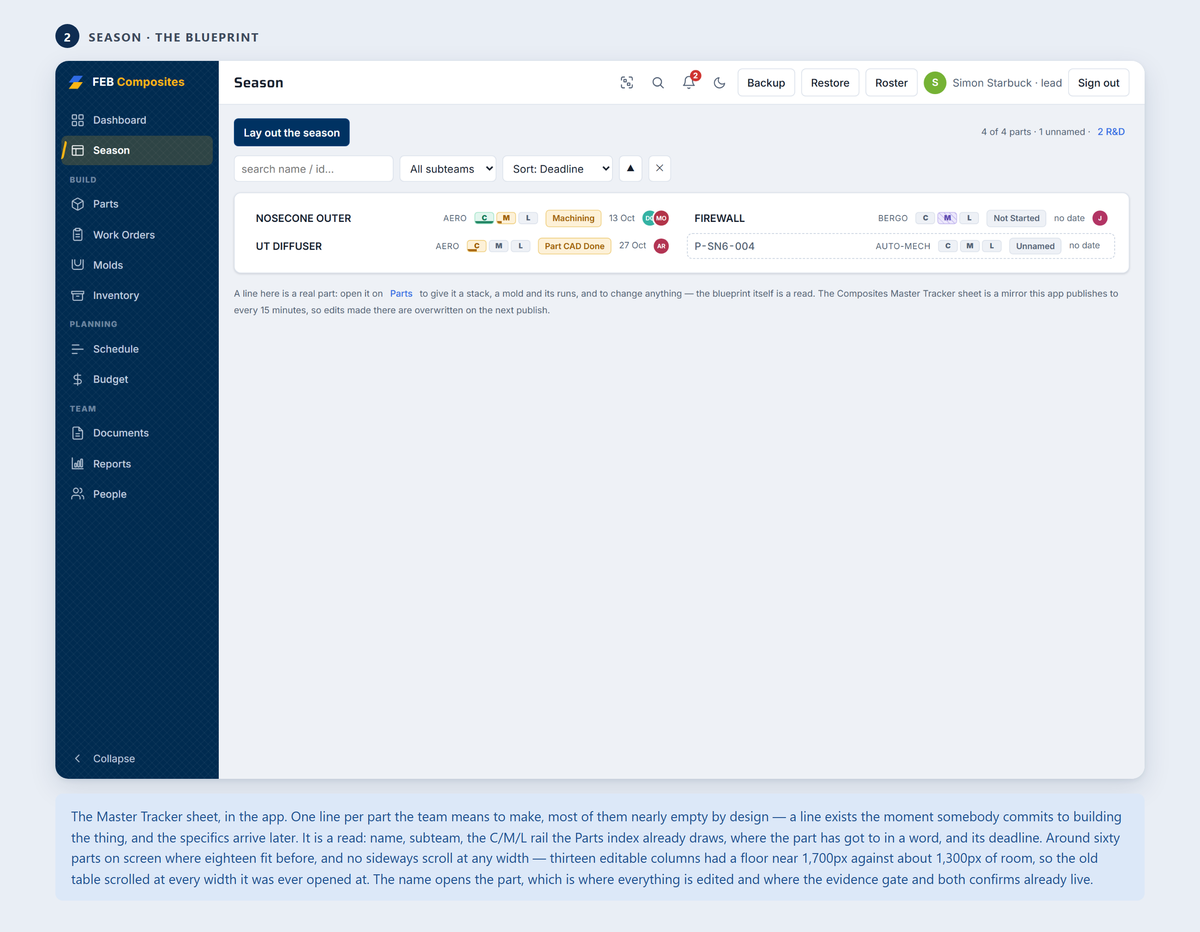
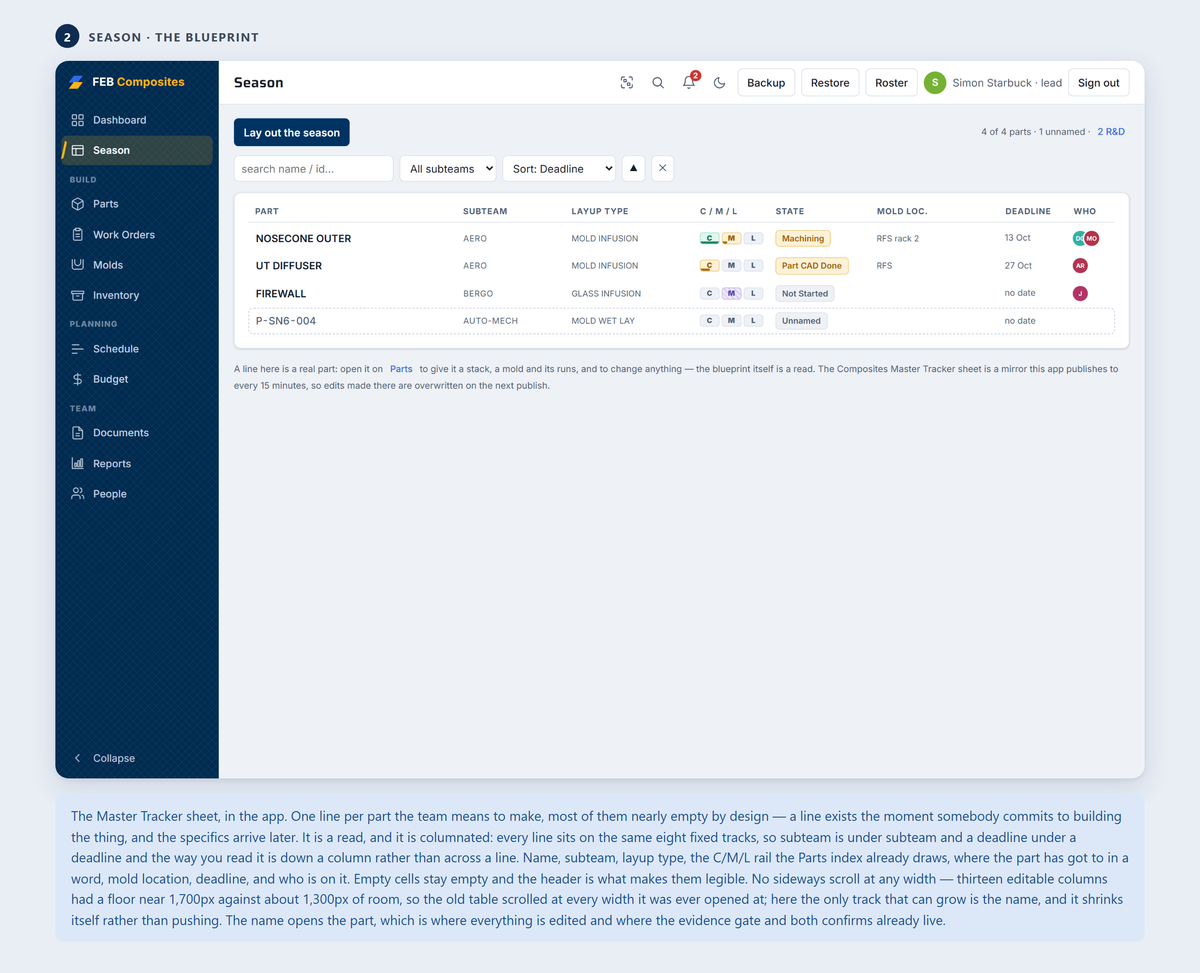
Season: one part per line, on columns you can scan down
Simon's read of what shipped in v3.0.0: the compactness was right, the
two-abreast flow was not. A multi-column flow fitted about sixty parts on
a screen and made every one of them harder to read, because each .sline
was its own grid sizing its own auto tracks — so no two lines put the
same field in the same place and there was no column to scan. Half as
many parts, aligned, is the better read.

So .sline and .shead now share ONE declaration of eight fixed tracks.
Four of them are ratios (name, subteam, layup type, mold location) and
four are literal widths (the rail, the state, the deadline, the faces);
the name's floor is 0 so a long name ellipses itself rather than pushing
the line wide, and the sum of the minima is 702px against ~1,000px of
content at the breakpoint where the widest two columns drop out. Nothing
here can be the thing that overflows.

justify-items: start, or every cell fills its track — which is invisible
until the cell has a background, at which point "Done" prints as a 122px
pill and the status column reads as a bar chart of nothing.

THE WIDTH ONE LINE GOT BACK PAID FOR TWO FIELDS. layupType and
moldLocation move from where:"part" to where:"grid" in SEASON_COLS, so
"which of these are wet layups" and "what is still in Etcheverry" stop
being eleven parts to open. They are the first two columns to go below
1240px, by one display:none rule — which works only because the header's
cells wear the LINE's classes; with plain spans the header kept eight
[…]

diff --git a/03 App/app/index.html b/03 App/app/index.html
@@ -469,31 +469,83 @@
   .list .statusdrop select { padding: 4px 22px 4px 9px; font-size: 12px; }
 
   /* ---- the Season blueprint ----
-     One line per part, in a MULTI-COLUMN FLOW rather than a table or a grid.
-     Three reasons, in order of how much they cost to learn:
+     One line per part, and the lines are COLUMNATED: every line is a grid with
+     the same fixed tracks, so subteam sits under subteam and a date under a
+     date all the way down the card. The alignment IS the reading mechanism —
+     you scan a column, not a line — which is why the tracks are literal widths
+     and not `auto`. An `auto` track sizes itself per row, and a grid per row is
+     eight ragged edges rather than eight columns.
 
-     A flow that wraps cannot overflow sideways. The thirteen-column table this
-     replaces had a floor near 1,700px against about 1,300px of content width,
-     so it scrolled sideways at every real viewport, forever; the UI suite fails
-     any horizontal overflow of <main> and exempted it only because .mtxwrap was
-     a scroller. There is nothing to exempt now.
+     It shipped in v3.0.0 as a two-abreast multi-column flow. That fitted about
+     sixty parts on a screen and made every one of them harder to read: with
+     each line sizing its own tracks, a field landed wherever its neighbours
+     left room, so there was no column to scan. Half as many parts, aligned,
+     is the better read — and the width one line got back paid for two more
+     fields that used to need the part opening.
 
-     `columns` and not `grid`, because down-then-across is the reading order of
-     a sorted list — the same call .rgrid makes, for the same reason. A grid
-     would put the second-most-urgent part beside the first instead of under it.
+     .shead and .sline SHARE ONE DECLARATION of the tracks, deliberately. Two
+     rules holding the same eight numbers is a drift waiting to happen, and a
+     header that has drifted off its columns is worse than no header at all.
 
-     And break-inside: avoid, or a line splits across the column gap. */
-  .seasongrid { columns: 430px; column-gap: 14px; }
-  .sgroup { break-inside: avoid-column; margin-bottom: 10px; }
+     No rules drawn between the columns. The alignment is the separation; a
+     line every hundred pixels rebuilds the table nobody asked to come back.
+
+     Nothing here can scroll sideways: the only elastic track is the name, at
+     minmax(0, 1fr), so a long name shrinks its own cell rather than pushing
+     the line wide. The UI suite fails any horizontal overflow of <main> and
+     exempted this tab only while .mtxwrap was a scroller; there is nothing to
+     exempt now. */
+  /* justify-items: start, or every cell fills its track — and a cell that fills
+     its track is invisible until it has a background, at which point "Done"
+     prints as a 122px pill and the status column reads as a bar chart of
+     nothing. The tracks position the cells; they are not the cells. */
+  .sline, .shead {
+    display: grid; align-items: center; justify-items: start; gap: 0 12px;
+    grid-template-columns:
+      /* Four text columns share the slack and four fixed ones do not. The
+         alternative — one elastic name track — gives the widest column all the
+         width nothing else wants, and at 1440 that left 230px of blank paper
+         between a part's name and its subteam with every other column jammed
+         against the right edge. Ratios, so the line uses the window it has
+         without any one column running away with it.
+
+         Every elastic track is minmax(_, Nfr) with a floor that fits its
+         content, and the name's floor is 0 so a long name shrinks itself to an
+         ellipsis rather than pushing the line wide. Sum of the minima is 702px
+         against ~1,000px of content at the 1240px breakpoint where the two
+         quiet columns drop out, so the grid can never be the thing that
+         overflows. */
+      minmax(0,     2fr)    /* part name                                     */
+      minmax(84px,  1fr)    /* subteam                                       */
+      minmax(104px, 1.2fr)  /* layup type                                    */
+      88px                  /* C/M/L rail: three 26px chips, two 3px gaps    */
+      122px                 /* the state in a word ("Machine Complete")      */
+      minmax(96px,  1.2fr)  /* mold location                                 */
+      78px                  /* deadline, with room for the late glyph        */
+      46px;                 /* two 20px avatars, overlapped                  */
+  }
+  .seasongrid { display: block; }
+  .sgroup { margin-bottom: 12px; }
   .sgroup .pgrouphd { margin-top: 0; }
 
-  /* Five things wide: name, subteam, the C/M/L rail, the state in a word, the
-     date. .sline and not .srow — that name has belonged to the dashboard's
-     module rows since round four, and the .dboard/.board collision is already
-     one cautionary tale in this file. */
-  .sline { break-inside: avoid; position: relative;
-    display: grid; grid-template-columns: minmax(0, 1fr) auto auto auto auto auto;
-    gap: 0 10px; align-items: center; padding: 5px 9px; margin-bottom: 2px;
+  /* The column names. Said once at the top of the card and never per group —
+     eight uppercase words between every subteam and its rows would be the
+     loudest thing on the page.
+
+     A blueprint is mostly empty for months and that is the tab's founding
+     argument rather than a defect (see season.js's header), so most of what
+     these label is blank. That is exactly when a column needs a name: an empty
+     cell under a heading is a field nobody has filled in yet, and an empty cell
+     under nothing is a gap. */
+  .shead { padding: 0 9px 5px; margin-bottom: 4px;
+    border-bottom: 1px solid var(--line); font-size: 11px; font-weight: 700;
+    letter-spacing: .06em; text-transform: uppercase; color: var(--muted); }
+  .shead span { overflow: hidden; text-overflow: ellipsis; white-space: nowrap; }
+
+  /* .sline and not .srow — that name has belonged to the dashboard's module
+     rows since round four, and the .dboard/.board collision is already one
+     cautionary tale in this file. */
+  .sline { position: relative; padding: 5px 9px; margin-bottom: 2px;
     border: 1px solid transparent; border-radius: 7px;
     transition: background var(--t-fast) var(--ease); }
   .sline:hover { background: var(--hover); border-color: var(--line); }
@@ -515,7 +567,14 @@
   .sl-open:focus-visible::after { outline: 2px solid var(--accent); outline-offset: 2px; }
   .sline.unnamed .sl-open { font-weight: 500; color: var(--muted); font-variant-numeric: tabular-nums; }
   .sl-sub { font-size: 11px; letter-spacing: .04em; text-transform: uppercase; color: var(--muted); white-space: nowrap; }
-  .sl-stat { white-space: nowrap; }
+  /* The two quiet ones. Muted and small on purpose: they qualify the name, they
+     do not compete with it, and they are the first two columns to go when the
+     window narrows. Both ellipsis rather than wrap — a line that grows to two
+     rows because one mold lives somewhere with a long name breaks the only
+     thing this layout is for. The full value is in the cell's own title. */
+  .sl-type, .sl-loc { font-size: 11px; color: var(--muted);
+    overflow: hidden; text-overflow: ellipsis; white-space: nowrap; }
+  .sl-stat { white-space: nowrap; overflow: hidden; text-overflow: ellipsis; }
   .sl-due { font-size: 11.5px; color: var(--muted); white-space: nowrap;
     display: inline-flex; align-items: center; gap: 3px; }
   .sl-due.warn { color: var(--bad); font-weight: 600; }
@@ -523,18 +582,35 @@
   .sl-who .avatar { margin-left: -5px; box-shadow: 0 0 0 2px var(--card); }
   .sl-who .avatar:first-child { margin-left: 0; }
 
-  /* Below about 1200px of content the line folds in two, the way .pitem does
-     on the Parts rail — name and date on top, everything that qualifies them
-     underneath. Narrower columns, so more of them still fit. */
-  @media (max-width: 1350px) {
-    .seasongrid { columns: 380px; }
-    .sline { grid-template-columns: minmax(0, 1fr) auto; row-gap: 2px; }
-    .sl-open { grid-row: 1; grid-column: 1; }
-    .sl-due { grid-row: 1; grid-column: 2; justify-self: end; }
-    .sl-sub, .sline .prog3, .sl-stat { grid-row: 2; }
-    .sl-sub { grid-column: 1; }
-    .sline .prog3 { grid-row: 2; grid-column: 1; justify-self: start; }
-    .sl-who { grid-row: 2; grid-column: 2; justify-self: end; }
+  /* Narrowing happens in two steps, and the cheap one comes first.
+
+     Losing layup type and mold location costs context and nothing structural,
+     and it hands 216px back to the name — which is enough to carry the line
+     down to a phone-adjacent width before anything has to fold. */
+  @media (max-width: 1240px) {
+    .sline, .shead { grid-template-columns: minmax(0, 2fr) minmax(84px, 1fr) 88px 122px 78px 46px; }
+    .sl-type, .sl-loc { display: none; }
+  }
+  /* Then the line folds in two, the way .pitem does on the Parts rail: name and
+     date on top, everything that qualifies them underneath.
+
+     Every cell on row two is placed EXPLICITLY, in FIXED tracks. Two bugs in
+     one line: the version this replaces put .sl-sub and .prog3 both at row 2 /
+     column 1, which stacks two grid items in one cell — the subteam printed
+     underneath the stage rail — and auto tracks would have sized row two per
+     row, so a BERGO line and an AUTO-MECH line put their rails in different
+     places. Folded is still columnated; it just has two rows to do it in. */
+  @media (max-width: 1000px) {
+    /* A header cannot label a folded line. The fields are no longer in one row,
+       so eight words across the top would name columns that are not there. */
+    .shead { display: none; }
+    .sline { grid-template-columns: 84px 88px 1fr auto; row-gap: 3px; }
+    .sl-open { grid-row: 1; grid-column: 1 / -2; }
+    .sl-due { grid-row: 1; grid-column: -2 / -1; justify-self: end; }
+    .sl-sub { grid-row: 2; grid-column: 1; }
+    .sline .prog3 { grid-row: 2; grid-column: 2; }
+    .sl-stat { grid-row: 2; grid-column: 3; justify-self: start; }
+    .sl-who { grid-row: 2; grid-column: 4; justify-self: end; }
   }
   /* Budget goals: one bar per category, spent against the lead-set goal, and
      a Season bar whose tick marks where base ends and contingency begins (the
@@ -2567,13 +2643,13 @@
        rather than blowing out their card. */
     table.sub { display: block; overflow-x: auto; -webkit-overflow-scrolling: touch; }
 
-    /* SEASON: one column of cards, like every other list here.
+    /* SEASON: one card per part, like every other list here.
        This used to be an exemption FROM table.list's card collapse, because a
        <td> holding an <input> is never :empty and every row would have become
        thirteen labelled inputs stacked down a 393px screen. There are no inputs
-       and no table now, so the exemption is gone with them and the flow simply
-       stops having columns to wrap into. */
-    .seasongrid { columns: auto; }
+       and no table now, so the exemption went with them. The folded two-row
+       line above is already what a card wants to hold; this only gives it the
+       card. */
     .sline { background: var(--card); border-color: var(--line); box-shadow: var(--shadow);
       padding: 9px 12px; margin-bottom: 8px; }
 
@@ -2932,9 +3008,13 @@
        else. Without this the printed Season tab is a page of dates and status
        chips with no idea what any of them is about. */
     #main .sl-open { display: inline !important; font: inherit; font-weight: 600; color: inherit; }
-    /* Two columns on paper: the lines are short and a season is long. */
-    #main .seasongrid { columns: 2; }
+    /* One line per part on paper, as on screen. It was two columns while a
+       line was five short fields; at eight it no longer fits beside itself, and
+       a season printed in two half-width columns would drop the last three
+       columns off both. The column names print with it — a page of blank cells
+       needs them more than the screen does, since paper has no tooltip. */
     #main .sline { break-inside: avoid; box-shadow: none; border-color: transparent; }
+    #main .shead { break-inside: avoid; break-after: avoid; }
     /* The budget list's inline editors print as the plain values they show:
        a form control on paper is chrome around a number. */
     .list .statusdrop select, .buy-cost input, .buy-cat { border: none; background: none; padding: 0; appearance: none; color: inherit; }

diff --git a/03 App/app/season.js b/03 App/app/season.js
@@ -31,7 +31,16 @@
    one click away, where the CS-003 evidence gate and both confirms live
    anyway (partStageRow in parts.js). So a row became a line: a name that opens
    the part, the C/M/L rail the Parts index already draws, a status in words,
-   and a date. Roughly sixty parts on screen where eighteen used to be.
+   and a date. Eight controls' worth of information and no controls.
+
+   ONE PART PER LINE, AND THE LINES ARE COLUMNATED. It shipped in v3.0.0 as a
+   two-abreast multi-column flow, which fitted about sixty parts on a screen
+   and made every one of them harder to read: a line's fields landed wherever
+   its neighbour's happened to leave room, so there was no column to scan down.
+   Half as many parts, each in a fixed grid track that lines up with the one
+   above it, is the better read — and the width one line got back paid for two
+   more fields (layup type, mold location) that used to need the part opening.
+   The tracks are literal widths in one shared declaration; see the CSS.
 
    THE FEED IS DOWNSTREAM. tracker.js publishes the parts list to a document
    the Master Tracker's Apps Script pulls every 15 minutes, so the sheet still
@@ -67,9 +76,9 @@ const SEASON_COLS = [
   { key: "moldProgress", label: "Mold", type: "stage", where: "grid" },
   { key: "layupProgress", label: "Layup", type: "stage", where: "grid" },
   { key: "subteam", label: "Subteam", type: "select", where: "grid", opts: () => SUBTEAMS },
-  { key: "layupType", label: "Layup type", type: "select", where: "part", opts: () => LAYUP_TYPES },
+  { key: "layupType", label: "Layup type", type: "select", where: "grid", opts: () => LAYUP_TYPES },
   { key: "layupSchedule", label: "Schedule", type: "text", where: "part" },
-  { key: "moldLocation", label: "Mold loc.", type: "text", where: "part" },
+  { key: "moldLocation", label: "Mold loc.", type: "text", where: "grid" },
   { key: "moldEngineer", label: "Mold eng.", type: "person", where: "part" },
   { key: "manufacturingEngineer", label: "Mfg eng.", type: "person", where: "part" },
   { key: "weightG", label: "Weight (g)", type: "num", where: "part" },
@@ -125,17 +134,61 @@ function seasonLine(p) {
   const late = typeof partLate === "function" && partLate(p);
   const named = !!String(p.partName || "").trim();
   const engs = typeof partEngineers === "function" ? partEngineers(p) : [];
-  return `<div class="sline${late ? " late" : ""}${named ? "" : " unnamed"}"
-      title="${esc(p.id)}${p.layupType ? " · " + esc(p.layupType) : ""}">
+  /* An empty cell is left EMPTY, not filled with an em-dash. A blueprint in
+     September is mostly empty and that is the tab's founding argument, not a
+     rendering gap; a column of placeholders down twenty-six rows would be
+     louder than the values. What makes an empty cell legible is the header
+     over it, which is why seasonHead() exists. */
+  return `<div class="sline${late ? " late" : ""}${named ? "" : " unnamed"}" title="${esc(p.id)}">
     <button type="button" class="sl-open" data-open="${esc(p.id)}"
       onclick="openRecord('parts','${esc(p.id)}')">${esc(p.partName || p.id)}</button>
     <span class="sl-sub">${esc(p.subteam || "")}</span>
+    <span class="sl-type" title="${esc(p.layupType || "")}">${esc(p.layupType || "")}</span>
     ${typeof stageRail === "function" ? stageRail(p) : ""}
     <span class="stage ${st.cls} sl-stat">${esc(st.label)}</span>
+    <span class="sl-loc" title="${esc(p.moldLocation || "")}">${esc(p.moldLocation || "")}</span>
     <span class="sl-due${late ? " warn" : ""}">${p.layupDeadline
       ? esc(shortDate(p.layupDeadline)) + (late ? " " + icon("warning", 12) : "")
       : `<span class="muted">no date</span>`}</span>
     <span class="sl-who">${engs.map(e => avatar(e.email || e.name, 20)).join("")}</span>
+  </div>`;
+}
+
+/* ---------- the column names ----------
+   Eight quiet words, once, above the first line. Columns of mostly-empty cells
+   need naming or they are just gaps, and this is the cheapest thing that names
+   them: a row on the same grid tracks as .sline, sharing one declaration of
+   those tracks so it cannot drift off them.
+
+   NOT a <th> and not sortable. Thirteen sortable headers are what this tab was
+   before v3.0.0 and what made it 1,700px wide; sorting lives in the one select
+   above, where it costs no width at all. This is a label and nothing else.
+
+   Five of the eight labels are read out of SEASON_COLS rather than typed here,
+   so a field renamed in the manifest is renamed on screen. The other three are
+   not single fields: the rail is the three stage columns drawn as one mark,
+   the state is derived (seasonStatus) and is in no manifest, and "Who" is both
+   engineer fields collapsed into one stack of faces.
+
+   The two droppable cells wear the LINE's classes, .sl-type and .sl-loc, and
+   that is the point of them: below 1240px one display:none rule takes the
+   column out of the header and out of every line at once. With plain spans the
+   header kept eight cells over six tracks and wrapped, which put LAYUP TYPE
+   over the subteam column and DEADLINE on a second row — a header lying about
+   its own columns is worse than none. */
+function seasonHead() {
+  const lbl = k => { const c = seasonCol(k); return esc(c ? c.label : k); };
+  const rail = typeof PART_STAGES !== "undefined"
+    ? PART_STAGES.map(s => esc(s.short)).join(" / ") : "C / M / L";
+  return `<div class="shead">
+    <span>${lbl("partName")}</span>
+    <span>${lbl("subteam")}</span>
+    <span class="sl-type">${lbl("layupType")}</span>
+    <span>${rail}</span>
+    <span>State</span>
+    <span class="sl-loc">${lbl("moldLocation")}</span>
+    <span>${lbl("layupDeadline")}</span>
+    <span>Who</span>
   </div>`;
 }
 
@@ -197,7 +250,8 @@ const SEASON_SORT_EXTRA = {
 const SEASON_SORT_LABELS = {
   layupDeadline: "Sort: Deadline", status: "Sort: Status", partName: "Sort: Part",
   subteam: "Sort: Subteam", cadProgress: "Sort: CAD", moldProgress: "Sort: Mold",
-  layupProgress: "Sort: Layup", group: "Group: subteam",
+  layupProgress: "Sort: Layup", layupType: "Sort: Layup type",
+  moldLocation: "Sort: Mold loc.", group: "Group: subteam",
 };
 function seasonSortVal(p, key) {
   if (SEASON_SORT_EXTRA[key]) return SEASON_SORT_EXTRA[key](p);
@@ -249,13 +303,17 @@ function seasonGroupHead(name, rows) {
   </div>`;
 }
 
-/* Rows in, sections out. Grouped, each subteam gets its own flow container, so
-   a heading can never be stranded at the foot of one column with its rows in
-   the next — which is the one thing a multi-column layout will do to you if you
-   let a single flow carry both. */
+/* Rows in, sections out. Grouped, each subteam gets its own section under its
+   own heading; the column names are printed ONCE, above everything, and never
+   again per group. Repeating them over each subteam would put the loudest thing
+   on the page — eight uppercase words — between every group and its rows.
+
+   They still line up across groups because the tracks are fixed widths shared
+   by .shead and .sline, not per-container auto tracks. That is the property
+   that makes one header able to label five separate sections at all. */
 function seasonBody(rows, grouped) {
-  if (!grouped) return `<div class="seasongrid">${rows.map(seasonLine).join("")}</div>`;
-  let out = "", run = null, bucket = [];
+  if (!grouped) return `<div class="seasongrid">${seasonHead()}${rows.map(seasonLine).join("")}</div>`;
+  let out = seasonHead(), run = null, bucket = [];
   const flush = () => {
     if (!bucket.length) return;
     out += `<section class="sgroup">${seasonGroupHead(run, bucket)}
@@ -396,10 +454,12 @@ function renderSeason() {
     <button class="sm sortdir" title="Clear filters" onclick="resetSeasonFilters()">✕</button>
   </div>
   <div class="card">
-    ${/* A wrapping multi-column flow, NOT a scroller. Down-then-across is the
-          reading order of a sorted list, and a flow that wraps cannot overflow
-          sideways at all — which is what the UI suite fails on, and what the
-          thirteen-column table did at every width it was ever opened at. */""}
+    ${/* Eight fixed grid tracks and one elastic name, NOT a scroller. The only
+          track that can grow is minmax(0, 1fr), so a long name shrinks its own
+          cell instead of pushing the line wide — which is what the UI suite
+          fails on, and what the thirteen-column table did at every width it was
+          ever opened at. The two quiet columns drop out below 1240px and the
+          line folds in two below 1000px; see the CSS. */""}
     ${rows.length ? seasonBody(rows, sortKey === "group") : `<p class="muted">${all.length
       ? "Nothing matches these filters."
       : "No parts yet. <b>Lay out the season</b> — a list of names is enough to start."}</p>`}

diff --git a/03 App/app/core.js b/03 App/app/core.js
@@ -31,11 +31,9 @@ var APP_VERSION = "3.0.0";
 /* What this version changed, in the words a team member would use. Rewritten
    every release; three to six lines, or nobody reads it. */
 var WHATS_NEW = [
-  "The dashboard is four lanes now, and each one is a question: what is Stopped, what is Waiting on you, what is Due this week, and what is On the clock. A lane is never empty-looking — if nothing is blocked it says so, because that is worth knowing on a Monday. \"Waiting on you\" is the new one: it only lists steps you can actually sign, and if you are waiting on a training it tells you which one and who can teach it.",
-  "The Season tab is a read now. One line per part — name, subteam, the C/M/L marks, where it has got to, and its deadline — about sixty on screen instead of eighteen, and no more scrolling sideways to find the column you wanted. Clicking a part's name opens it. EDITING MOVED: change a part on its own page, where the evidence gate and the confirms already live. To add parts, \"Lay out the season\" takes a whole list of names at once.",
-  "A mold's drawings now come with its cut sheets: which boards it needs, where they are on the rack, and a full-size nest of each board with the saw cuts numbered. Blanks belonging to other molds are hatched, so you leave them alone. The Molds tab also prints the whole shop's cut list as a proper drawing set — title block, sheet numbers and all — instead of the bare page it used to make.",
-  "Anyone can now open the app and press \"View as guest\" to look around without an account. Guests can read everything and change nothing, because a buy-off carries a name. Useful for showing the team what we do; worth knowing that it means the app is readable by anyone with the link.",
-  "The loading screen holds long enough to actually read the fun fact, and you can tap it (or press Enter) to go straight in.",
+  "The Season tab is one part per line again, and the lines now sit in real columns — subteam under subteam, deadline under deadline, all the way down. It went out last week two abreast, which fitted more parts and made every one of them harder to read, because no two lines put the same field in the same place. Half as many parts, in columns you can scan, is the better read.",
+  "The width that bought back paid for two more fields on the line: LAYUP TYPE and MOLD LOC. So \"which of these are wet layups\" and \"what is still sitting in Etcheverry\" are now questions you answer by looking down a column, instead of opening eleven parts. There is a row of column names across the top, and both new columns drop out on a narrow screen before anything else does.",
+  "On a laptop or a tablet the line folds into two rows, and those two rows line up now too — the subteam and the C/M/L marks used to land in a different place on every row, and on the narrowest screens the subteam printed underneath the stage rail.",
 ];
 
 /* ---------- config/release ----------

diff --git a/README.md b/README.md
@@ -61,7 +61,7 @@ top, then Build, Planning, and Team):
 
 - **Dashboard:** the pit board, and the page you land on. Four lanes, each a question — **Stopped** (what is in the way of a run nobody can move), **Waiting on you** (what *you* can sign right now), **Due this week**, and **On the clock** (what is running without you, and when you come back). A lane never disappears: an empty one says so in a sentence with a number in it, because "nothing is blocked" is worth reading at a Monday meeting. Below them, side by side, the program (build progress, molds, money, RFS bookings, the store, the all-season counters) and the shop's footer (the filtered jumps and what has been touched lately, with team lore on its own surface at the foot of it). **"Waiting on you" is the new part**: it walks the buy-off gate ladder in the same order the button does, so it never promises a signature the button then refuses, and for somebody with no trainings yet it says which training would unlock the most work and who holds it. Role-aware: a lead also sees approvals, cure overrides and unassigned runs; a guest gets a season showcase instead of a work queue.
 - **Molds:** planning a mold slices an STL into board layers, splits it at the ShopSabre's cut-depth limit, and prints a dimensioned engineering drawing set. Those drawings now carry **cut sheets**: a schedule of every blank with the board it comes off, then one large sheet per board showing the nest, the numbered saw cuts and everything else sitting on that board. The Molds tab also prints the **whole shop's cut list** as its own sheet set. Both come off one batch pack, so they agree, and both carry a batch stamp — because a nest is a function of every planned mold and changes when any of them does.
-- **Season:** the blueprint, and the tab that replaced the Composites Master Tracker spreadsheet. One line per part the team means to make, most of them nearly empty — which is the point: in September the team knows it is building a nosecone and four side panels, not what their layup schedules are. A line that exists with nothing in it is a commitment to build the thing, and it **is** a real part record from the moment it exists, so there is no promotion step. It is a **read**: name, subteam, the C/M/L rail, where the part has got to in a word, and its deadline — around sixty parts on screen, and no sideways scroll at any width, where thirteen editable columns scrolled at every width. The name opens the part, which is where everything is edited and where the evidence gate and both confirms already live. **Lay out the season** takes a list of names and makes them all at once. This season only, and the Google Sheet is downstream — the app publishes to it every 15 minutes, so an edit made there is overwritten on the next publish.
+- **Season:** the blueprint, and the tab that replaced the Composites Master Tracker spreadsheet. One line per part the team means to make, most of them nearly empty — which is the point: in September the team knows it is building a nosecone and four side panels, not what their layup schedules are. A line that exists with nothing in it is a commitment to build the thing, and it **is** a real part record from the moment it exists, so there is no promotion step. It is a **read**, and it is columnated: every line sits on the same eight fixed tracks, so subteam is under subteam and a deadline under a deadline, and the way you read it is down a column rather than across a line. Name, subteam, layup type, the C/M/L rail, where the part has got to in a word, mold location, deadline, and who is on it — under one row of column names, said once however the list is grouped. Empty cells stay empty, since most of a blueprint is blank until March, and the header is what makes a blank cell legible. No sideways scroll at any width, where thirteen editable columns scrolled at every width: the only track that can grow is the name, and it shrinks itself to an ellipsis rather than pushing the line wide. The name opens the part, which is where everything is edited and where the evidence gate and both confirms already live. **Lay out the season** takes a list of names and makes them all at once. This season only, and the Google Sheet is downstream — the app publishes to it every 15 minutes, so an edit made there is overwritten on the next publish.
 - **Work Orders:** the manufacturing traveler, as a split view like Parts and Molds. The rail indexes every run grouped by the part it builds, so the tab reads as the part → run → mold hierarchy; each row carries how far through its buy-offs it is, and whether it is blocked or curing. Parts nobody has started show up too, with the button that starts one. Group, sort and filter are yours to set. The pane keeps the whole record in one scroll, Steps first because that is the bench action, but each section is its own card now, headed by a gold-slashed label carrying the same count and attention word the jump bar shows. A hero band under the title answers the five questions people come for: status as a colored dropdown (no edit mode needed), a steps progress bar, due date, mass actual against target, and the engineers' faces. Blockers and cure holds finally look different (a blocker is a person, amber; a hold is the clock, slate), signed steps compress to one line with their history a tap away, and the next step to act on wears a gold NOW badge and the page's only loud buy-off button. Photos are a first-class record: every step row has a camera button and a thumb strip, a Photos section collects everything on the record grouped by step, and declining "sign without a photo?" opens the camera and finishes the buy-off once the photo lands. Reference blocks (BOM, event log) fold behind counted summaries; quality and files fold only when empty; the note thread lives in its own card. Layup stack, BOM, step buy-offs stamped with who signed, blocker steps, and enforced cure holds backed by the datasheets in `resins.js`. Prints to a hand-fillable sheet that is always exactly two pages. **Issues** are a section of the run they hold up: raise one from the section or from a step's flag button, dispose it inline, and the run cannot be set Complete until every issue has a resolution method and a documented root cause — the same CS-003 gate whether you close it on the page, from a step, or in the closeout modal that a refused Complete opens. The rail's `issues` chip filters to the runs still carrying one. Deleting a run is one path that takes everything that only existed because of it — the issues it holds up, the photos and CAD uploaded to it, and the work-order link on any part, mold or test panel that named it — and a lead can tick as many runs off the rail as they like and clear a season in one pass. (Until v1.0.0 issues shared a Tickets tab with project tracking; that tab is shelved — see `03 App/app/SHELVED.md`.)
 - **Parts:** the season tracker as a split view: every part down the left, the selected one beside it, each stage a row of steps you click. Arrow keys walk the list; `1`/`2`/`3` advance the stages.
 - **Molds:** a split view of every mold, the rail grouped by the stage each one is at so it reads as the pipeline it is. A mold carries stage, home location, sealing record and parts pulled, plus its mold file — the stack plan it is cut from, with the plans it superseded still openable and marked as such. The mold file is genuinely part of the mold: the rotatable 3D view of the mold sitting inside its stock, the exploded stack and the blanks table are all on the mold's own page rather than a click away on a separate plan record. Only a plan with no mold to be reached through gets a row of its own. One "+ Mold" button covers planning from an STL, from typed dimensions, or recording a mold that has no CAD yet. With nothing selected the pane adds "Needs a hand": molds with no home location, molds machined with no stack plan on file, plans carrying a slicer warning nobody has read, and plans with no mold. Board grade is typed rather than picked from a list, because the rack has always held sheets outside the 30/60 pcf catalogue, and it is a range rather than a single number: leave the maximum blank and the mold is held to one grade as before, or give a range and any board inside it may supply any blank. The price of that is that a mold no longer has one density, so the highest grade actually cut is called out on the cut list, on the molds list and in the title block of every drawing sheet — the densest board in a glued stack sets the ShopSabre feed rate for all of it. The drawing set is a general view (assembled stock with the mold hatched inside it and waterline section contours, plus a mold-only inset), a third-angle three-view, and one placement sheet per board. The planner takes a mold STL, picks boards, splits at the ShopSabre depth limit, prints a numbered cut list, and creates the mold record at "Designed". Blanks are sawn to whole half-inch increments so a person with a tape can cut them, which also puts every cut position on an eighth-inch mark. The cut list opens the board that costs least, scoring the material spent, the option value destroyed (a big board is the only thing that can hold a big blank, so spending one on small blanks is charged for) and what it costs to lift the boards stacked on top of it — a small charge, deliberately too small to buy a worse nest, that earns its place among the near-equal candidates a density range creates. When the sawdust settles, "Mark these boards cut" executes the list: cut boards leave the rack, every reusable offcut goes back on it as a new board row with its provenance, and one Undo restores the exact rack.
